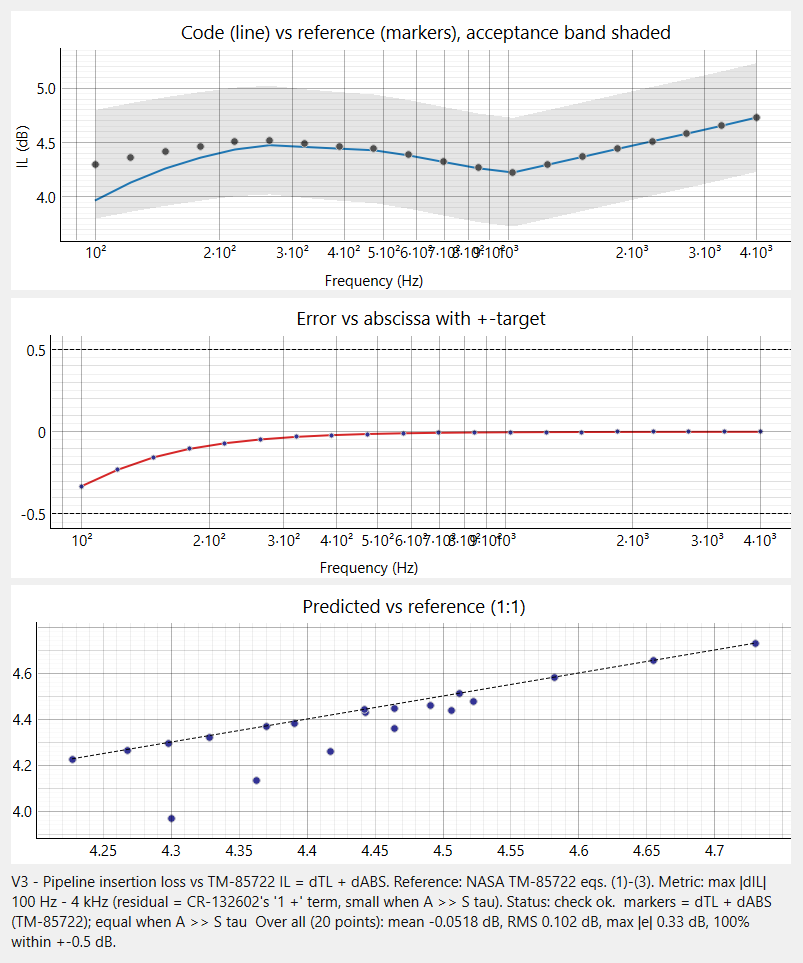
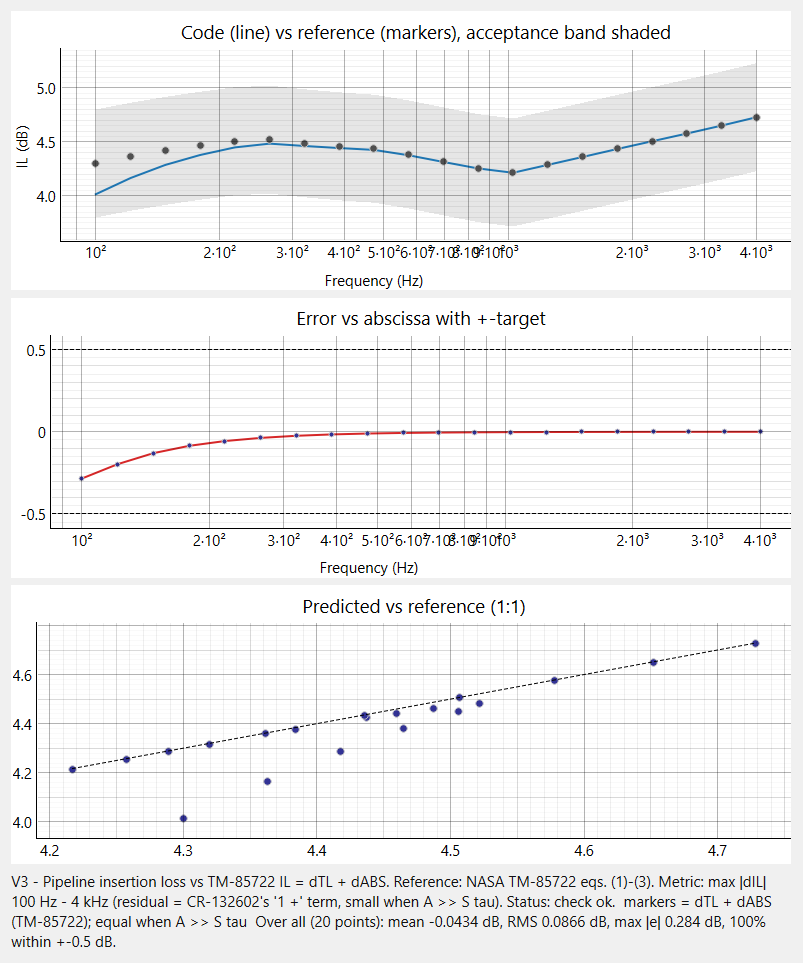
Cabin_Noise: default cabin 22.7 x 2.64 x 1.9 m; cabin air and cavity absorption no longer GUI inputs
- Default example cabin: 22.7 m long, 2.64 m wide, 1.9 m floor to ceiling (assumed);
  windows scale with length (17 per side). Cruise 97.6 dBA average (was 98.2); V3 0.28 dB (was 0.33).
- Cabin pressure altitude / temperature and the cavity alpha table removed from the GUI as too
  detailed for a low-fi tool; fixed at 8000 ft, 20 C and CR-132602 sec. 6.2, shown in readouts.
  Model fields kept: validation cases use their reports' values; no recorded result changed.

diff --git a/Cabin_Noise/cabin_noise/gui/panels.py b/Cabin_Noise/cabin_noise/gui/panels.py
@@ -197,7 +197,7 @@ class SidewallTab(Tab):
             F("trim_mass", "Trim surface mass", "kg/m2", lo=0, hi=100),
             F("blanket_mass", "Blanket surface mass", "kg/m2", lo=0, hi=100),
             F("cavity_depth", "Cavity depth (skin to trim)", "mm", scale=1e3, lo=1, hi=1000),
-        ] + [F(f"cavity_alpha.{i}", f"Cavity alpha {int(f)} Hz", lo=0, hi=1) for i, f in enumerate(ALPHA_OCTAVES)])
+        ])
         self.form.changed.connect(self.emit)
         self.v.addWidget(self.form)
         self.readout = QLabel()
@@ -220,7 +220,8 @@ class SidewallTab(Tab):
         if sw.double_wall:
             txt += (f"   |   trim + blanket {sw.m_trim:.2f} kg/m2, TL = " + " / ".join(f"{x:.1f}" for x in tl(sw.m_trim))
                     + f"   |   cavity cross-mode c/2L = {air.c / (2 * sw.cavity_depth):.0f} Hz")
-        self.readout.setText(txt + " dB")
+        self.readout.setText(txt + " dB\nCavity absorption (not an input; default CR-132602 sec. 6.2 table), octaves 63 Hz-8 kHz: "
+                             + " / ".join(f"{a:.2f}" for a in sw.cavity_alpha))
 
 
 # ---- Openings -----------------------------------------------------------------------
@@ -276,8 +277,6 @@ class CabinTab(Tab):
         self.form = DataclassForm([
             F("Lx", "Cabin length L_x", "m", lo=0.5, hi=60), F("Ly", "Width L_y", "m", lo=0.5, hi=10),
             F("Lz", "Height L_z", "m", lo=0.5, hi=5),
-            F("cabin_altitude", "Cabin pressure altitude", "m", lo=0, hi=5000),
-            F("temperature", "Cabin temperature", "K", lo=250, hi=320),
             F("volume", "Volume override (0 = box)", "m3", lo=0, hi=1000),
         ])
         self.form.changed.connect(self.emit)
@@ -338,4 +337,6 @@ class CabinTab(Tab):
         T = cab.t60(V, A)
         fs = cab.schroeder_frequency(float(np.mean(T[1:3])), V)
         self.readout.setText(f"V = {V:.1f} m3; A(125/500/1k/2k) = " + " / ".join(f"{a:.1f}" for a in A)
-                             + " m2; T60 = " + " / ".join(f"{t:.2f}" for t in T) + f" s; Schroeder f_s = {fs:.0f} Hz")
+                             + " m2; T60 = " + " / ".join(f"{t:.2f}" for t in T) + f" s; Schroeder f_s = {fs:.0f} Hz"
+                             + f"\nCabin air (not an input): pressure altitude {c.cabin_altitude:.0f} m, "
+                             f"{c.temperature - 273.15:.0f} C")

diff --git a/Cabin_Noise/cabin_noise/core/io.py b/Cabin_Noise/cabin_noise/core/io.py
@@ -32,18 +32,19 @@ def default_project() -> Project:
     lib = load_library()
     cab = CabinConfig()
     floor = cab.Lx * cab.Ly
+    n_win = round(0.75 * cab.Lx)                   # windows per side, one per 1.33 m of cabin
     walls = 2 * cab.Lx * cab.Lz * 0.75
     cab.surfaces = [
         _lib_surface(lib, "Carpet on floor", floor * 0.4),
         _lib_surface(lib, "Upholstered seats (per m2 floor)", floor * 0.6),
         _lib_surface(lib, "Trim panels", walls),
         _lib_surface(lib, "Perforated headliner", cab.Lx * cab.Ly),
-        _lib_surface(lib, "Windows", 2 * 12 * 0.08),
+        _lib_surface(lib, "Windows", 2 * n_win * 0.08),
         _lib_surface(lib, "Bulkhead (hard)", 2 * cab.Ly * cab.Lz),
     ]
     sidewall = Sidewall(skin_thickness=1.6e-3, skin_density=2780.0, skin_added_mass=1.5, double_wall=True,
                         trim_mass=2.7, blanket_mass=9.6 * 0.05, cavity_depth=0.09)
-    windows = Opening(name="Windows (6 per side, 6 + 4 mm acrylic as one pane)", area=6 * 0.08, mode="mass",
+    windows = Opening(name=f"Windows ({n_win} per side, 6 + 4 mm acrylic as one pane)", area=n_win * 0.08, mode="mass",
                       mass=1190.0 * 0.010)
     mission = Mission(segments=[
         Segment(name="Climb", altitude=3000.0, mach=0.30, rpm=1700.0, shaft_power=900e3, eta_p=0.80),

diff --git a/Cabin_Noise/cabin_noise/core/pipeline.py b/Cabin_Noise/cabin_noise/core/pipeline.py
@@ -54,9 +54,10 @@ class Fuselage:
 
 @dataclass
 class CabinConfig:
-    Lx: float = 8.0
-    Ly: float = 1.9
-    Lz: float = 1.8
+    # Box of the cabin air above the floor (the underfloor bay is not part of the cabin).
+    Lx: float = 22.7                 # cabin length, m
+    Ly: float = 2.64                 # cabin width, m
+    Lz: float = 1.9                  # floor to ceiling, m (assumed, typical regional turboprop)
     cabin_altitude: float = 2438.4   # m (cabin pressure altitude)
     temperature: float = 293.15      # K
     surfaces: list = field(default_factory=list)

diff --git a/Cabin_Noise/projectPlan.md b/Cabin_Noise/projectPlan.md
@@ -558,3 +558,11 @@ Everything below is digitized under `PAIN_Program/data` and can be copied withou
 - **VALIDATION.md:** what each case checks, which block it tests, why its data were chosen, the data considered and not used, and Mermaid diagrams of the pipeline and the case process. It links one PNG per case and the stage map in `docs/figures/`, made by `scripts/make_doc_figures.py` from the Validation tab's own plots.
 - **Caption fix:** the Validation tab's caption computed its mean, RMS and "% within" over every plotted point, including points outside the criterion range. For V4 it showed 54 % against the verdict's 45 %. It now uses the same points as the verdict (`criterion_range`) and says so. The GUI smoke test checks that every caption's percentage equals its verdict's. No recorded result changed.
 - **Deviation from sec. 4 (Heatmap):** the |error| / target heatmap under the Validation tab was removed at the author's request (2026-11-03). Per-case error plots remain.
+
+### Default cabin and fewer inputs (2026-11-03, author's request)
+- **Default example cabin:** 22.7 m long, 2.64 m wide, 1.9 m floor to ceiling. The box is the cabin air above the floor; the underfloor bay is not part of the cabin. The height is an assumption (typical regional turboprop headroom), editable in the Cabin tab. Windows scale with the length: 17 per side (one per 1.33 m, the old 6 per 8 m), as both the opening and the absorbing surface (before: 6 openings but 12 absorbing windows per side).
+- **Result:** default cruise 97.6 dBA room average, 102.3 dBA at the 95th-percentile seat (was 98.2 / 103.0). V3's residual is 0.28 dB (was 0.33; check ok). V2p is unchanged, because it replaces the surfaces with its own, sized to the wall. No validation case uses the default cabin.
+- **Deviation (GUI inputs removed as too detailed for a low-fi tool):**
+  - Cabin pressure altitude and cabin temperature are no longer inputs. The model holds them fixed at 2438 m (8000 ft) and 20 C, shown in the Cabin tab's readout.
+  - The cavity absorption table is no longer an input. It is fixed to CR-132602 sec. 6.2's table, shown in the Sidewall tab's readout.
+  - The model fields remain, so the validation cases still use each report's stated values (lab at sea level, measured flight cabin pressure), and saved projects keep loading. No recorded result changed.

diff --git a/Cabin_Noise/VALIDATION.md b/Cabin_Noise/VALIDATION.md
@@ -119,7 +119,7 @@ flowchart LR
 | V0a | Gutin's closed form against direct quadrature of the rotating-dipole integral it is derived from | The closed form (Bessel function) is where an implementation slip would hide | check ok, 2e-12 dB | [V0a](docs/figures/V0a.png) |
 | V1 | CR-132602 eq. 46 against the 0-90 deg integral of eq. 45 | Eq. 46 is the closed form of that integral; every wall in the tool uses it | check ok, 9e-10 dB | [V1](docs/figures/V1.png) |
 | V2 | CR-132602 eq. 52 against a numeric solution of the power balance eq. 47 | Eq. 52 is derived from eq. 47. This check also settles the eq. 53 misprint (2/eps against 4/eps) | check ok, 7e-15 dB | [V2](docs/figures/V2.png) |
-| V3 | The pipeline's insertion loss against TM-85722's IL = dTL + dABS | It checks that openings and absorption are wired the way TM-85722 splits them | check ok, 0.33 dB (the "1 +" term) | [V3](docs/figures/V3.png) |
+| V3 | The pipeline's insertion loss against TM-85722's IL = dTL + dABS | It checks that openings and absorption are wired the way TM-85722 splits them | check ok, 0.28 dB (the "1 +" term) | [V3](docs/figures/V3.png) |
 | V2p | CR-132602 Fig. 14 reproduced from the report's stated inputs | It is the paper's only printed worked example of the NR method: the whole NR block, end to end | **check failed**, 3.3 dB | [V2p](docs/figures/V2p.png) |
 
 **V2p in more detail.** The single wall comes out 2.1-3.3 dB below Fig. 14, but with the right shape.

diff --git a/Cabin_Noise/METHOD.md b/Cabin_Noise/METHOD.md
@@ -20,7 +20,7 @@ mission -> exterior level (tones, boundary layer) -> sidewall NR -> interior lev
 | Sidewall NR | non-resonant double wall, eq. (52): NR = 10 log[(1 + 4 alpha3 / (eps tau31))(1 + alpha5 / tau35) + alpha5 / tau31]; blanket mass on the trim (sec. 6.2); single wall: 10 log(1 + alpha5 / tau) | NASA CR-132602 sec. 5.2 | V2: eq. (52) = numeric solution of the power balance eq. (47) (1e-14) |
 | Openings | area-weighted transmission; double window = one pane of the summed mass; areas given per side, scaled with the exposed area | NASA TM-85722 eq. (1), p. 17 | `test_openings_combine_by_area_as_tm85722_eq1` |
 | Cabin | alpha5 S = A = sum S alpha (Sabine), or 0.161 V / T60 from measured T60 | Sabine; CR-132602 eq. (37) | Sabine constant |
-| Insertion loss | L_bare - L_treated = dTL + dABS | NASA TM-85722 eqs. (1)-(3) | V3: within 0.33 dB (the "1 +" term of the single-wall form) |
+| Insertion loss | L_bare - L_treated = dTL + dABS | NASA TM-85722 eqs. (1)-(3) | V3: within 0.28 dB (the "1 +" term of the single-wall form) |
 | Seat spread | 95th-percentile seat = room average + 10 log10(ln 20) | Schroeder 1962 | exponential-sample test |
 | Weighting | IEC A / C | IEC 61672-1 | table values |
 

diff --git a/Cabin_Noise/VERIFICATION.md b/Cabin_Noise/VERIFICATION.md
@@ -17,7 +17,7 @@ METHOD.md lists the methods and sources.
 | V2: CR-132602 eq. (52) | numeric solution of the report's power balance, eq. (47) | 1e-14 dB (also shows the 2/eps of eq. (53) is a misprint) |
 | Pipeline NR | eq. (52) / single-wall form written out | 1e-12 dB |
 | Openings | TM-85722 eq. (1) written out | 1e-12 dB |
-| V3: insertion loss | TM-85722 IL = dTL + dABS | 0.33 dB (the "1 +" term) |
+| V3: insertion loss | TM-85722 IL = dTL + dABS | 0.28 dB (the "1 +" term) |
 | V2p: reproduce CR-132602 Fig. 14 | the report's own printed NR prediction, from its stated inputs (criterion 1.5 dB, fixed before the run) | **failed**: single wall 2.1-3.3 dB low, flat offset. Post-hoc: the unstated area ratio S5/S2 = 2 closes it within 0.3 dB (cases.yaml) |
 | Goody | the source's asymptotic slopes (w^2, about w^-0.7, w^-5) | pass |
 | Diffuse wall factor | Monte Carlo of random plane waves at a rigid wall (Waterhouse) | 2.0 within 10 % |

diff --git a/Cabin_Noise/README.md b/Cabin_Noise/README.md
@@ -38,6 +38,8 @@ python -m venv .venv
 | `docs/figures/` | Per-case figures and the stage map linked from VALIDATION.md (`scripts/make_doc_figures.py`) |
 | `tests/` | pytest suite (`independent.py` holds the independent re-implementations) |
 
+**Default example:** a generic twin turboprop with a 22.7 x 2.64 x 1.9 m cabin; cruise 97.6 dBA room average, 102.3 dBA at the 95th-percentile seat. Cabin air (8000 ft, 20 C) and the cavity absorption (CR-132602 sec. 6.2) are fixed, not inputs.
+
 ## Validation status (paper pipeline, 2026-11-02)
 
 - **Verification:** V0a, V1, V2, V3 pass (no verdict).
